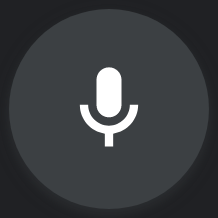
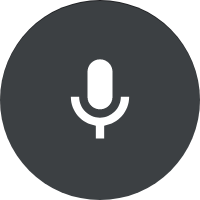
trouble centring

diff --git a/main.cpp b/main.cpp
@@ -1,4 +1,6 @@
-#include <cmath>
+#include <SFML/Audio/AlResource.hpp>
+#include <SFML/Audio/Sound.hpp>
+#include <SFML/Audio/SoundRecorder.hpp>
 #include <string>
 #include <vector>
 #include <iostream>
@@ -9,7 +11,7 @@
 #include <SFML/Network.hpp>
 #include <SFML/Graphics.hpp>
 
-using std::cout, std::endl;
+using std::cout, std::endl, std::string;
 
 #define WIDTH  800
 #define HEIGHT 500
@@ -25,22 +27,33 @@ int main(int argc, char* argv[])
 	sf::Texture img_mic_on, img_mic_off, img_mic_err;
 	img_mic_on.loadFromFile("assets/mic_on.png");
 	img_mic_off.loadFromFile("assets/mic_off.png");
-	img_mic_err. loadFromFile("assets/mic_err.png");
+	img_mic_err.loadFromFile("assets/mic_err.png");
 
 	/* -------------------------------------------------- */
 
-	sf::Sprite mic_button(img_mic_err);
+	sf::Sprite mic_b(img_mic_err);
+
+	bool muted = true;
+	bool HasMic = sf::SoundRecorder::isAvailable();
+	if (HasMic)
+	{
+		mic_b.setTexture(img_mic_off);
+		string MicName = sf::SoundRecorder::getDefaultDevice();
+	}
+	else
+	{
+		mic_b.setTexture(img_mic_err);
+		string MicName = "No Microphone Detected";
+	}
 
 	auto adjustPositions = [&]()
 	{
-		auto winsize = window.getSize();
-		unsigned x = winsize.x;
-		unsigned y = winsize.y;
-
-		view.setSize(x, y);
+		auto win_size = window.getSize();
+		view.setSize(win_size.x, win_size.y);
 		window.setView(view);
-		mic_button.setScale(.5f,.3f);
-		mic_button.setPosition(x/2-100, y/2-100);
+
+		auto mic_b_size = mic_b.getTexture()->getSize();
+		mic_b.setPosition((win_size.x-mic_b_size.x)/2, (win_size.y-mic_b_size.y)/2);
 	};
 
 	while (window.isOpen())
@@ -56,7 +69,7 @@ int main(int argc, char* argv[])
 
 		window.clear(sf::Color(40,40,60,255));
 
-		window.draw(mic_button);
+		window.draw(mic_b);
 
 		window.display();
 	}
